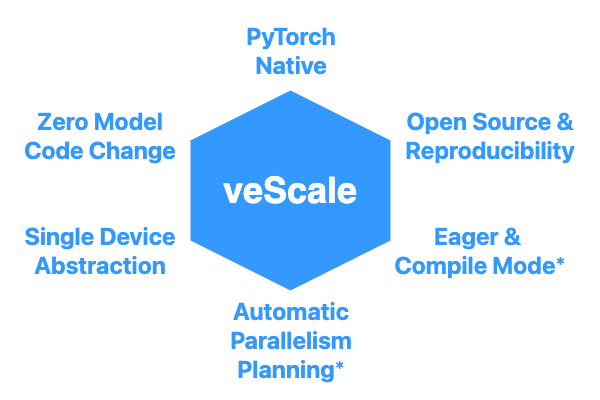
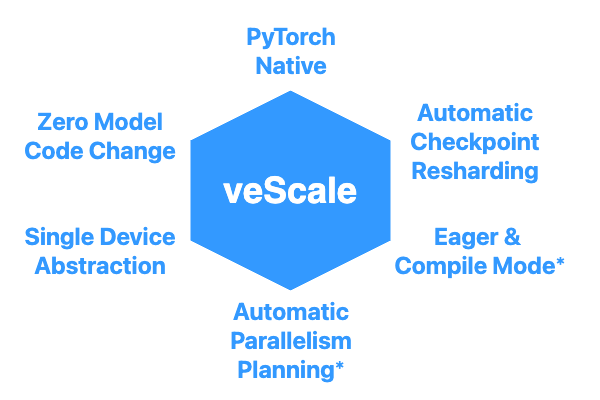
update

Changed region(s): [[0.66, 0.24, 0.96, 0.48]]

diff --git a/docs/en/index.md b/docs/en/index.md
@@ -5,7 +5,7 @@ linkFeed: blog-en
 hero:
   # name: veScale
   text: A PyTorch Native LLM Training Framework
-  # tagline: From a practical production perspective.
+  tagline: An Industrial-Level Framework for Easy-of-Use
   image:
     src: /icon.png
     alt: logo
@@ -38,8 +38,8 @@ features:
     details: veScale supports not only Eager-mode automation for parallel training and inference but also Compile-mode for ultimate performance [coming soon].
     icon: ⚡
 
-  - title: Open Source & Reproducibility
-    details: veScale is an open-source project, ensuring easy access and utilization for companies and research institutions alike. 
-    icon: 🌐
+  - title: Automatic Checkpoint Resharding
+    details: veScale manages distributed checkpoints automatically with online resharding across different cluster sizes and different parallelism strategies. 
+    icon: 📀
     
 ---
